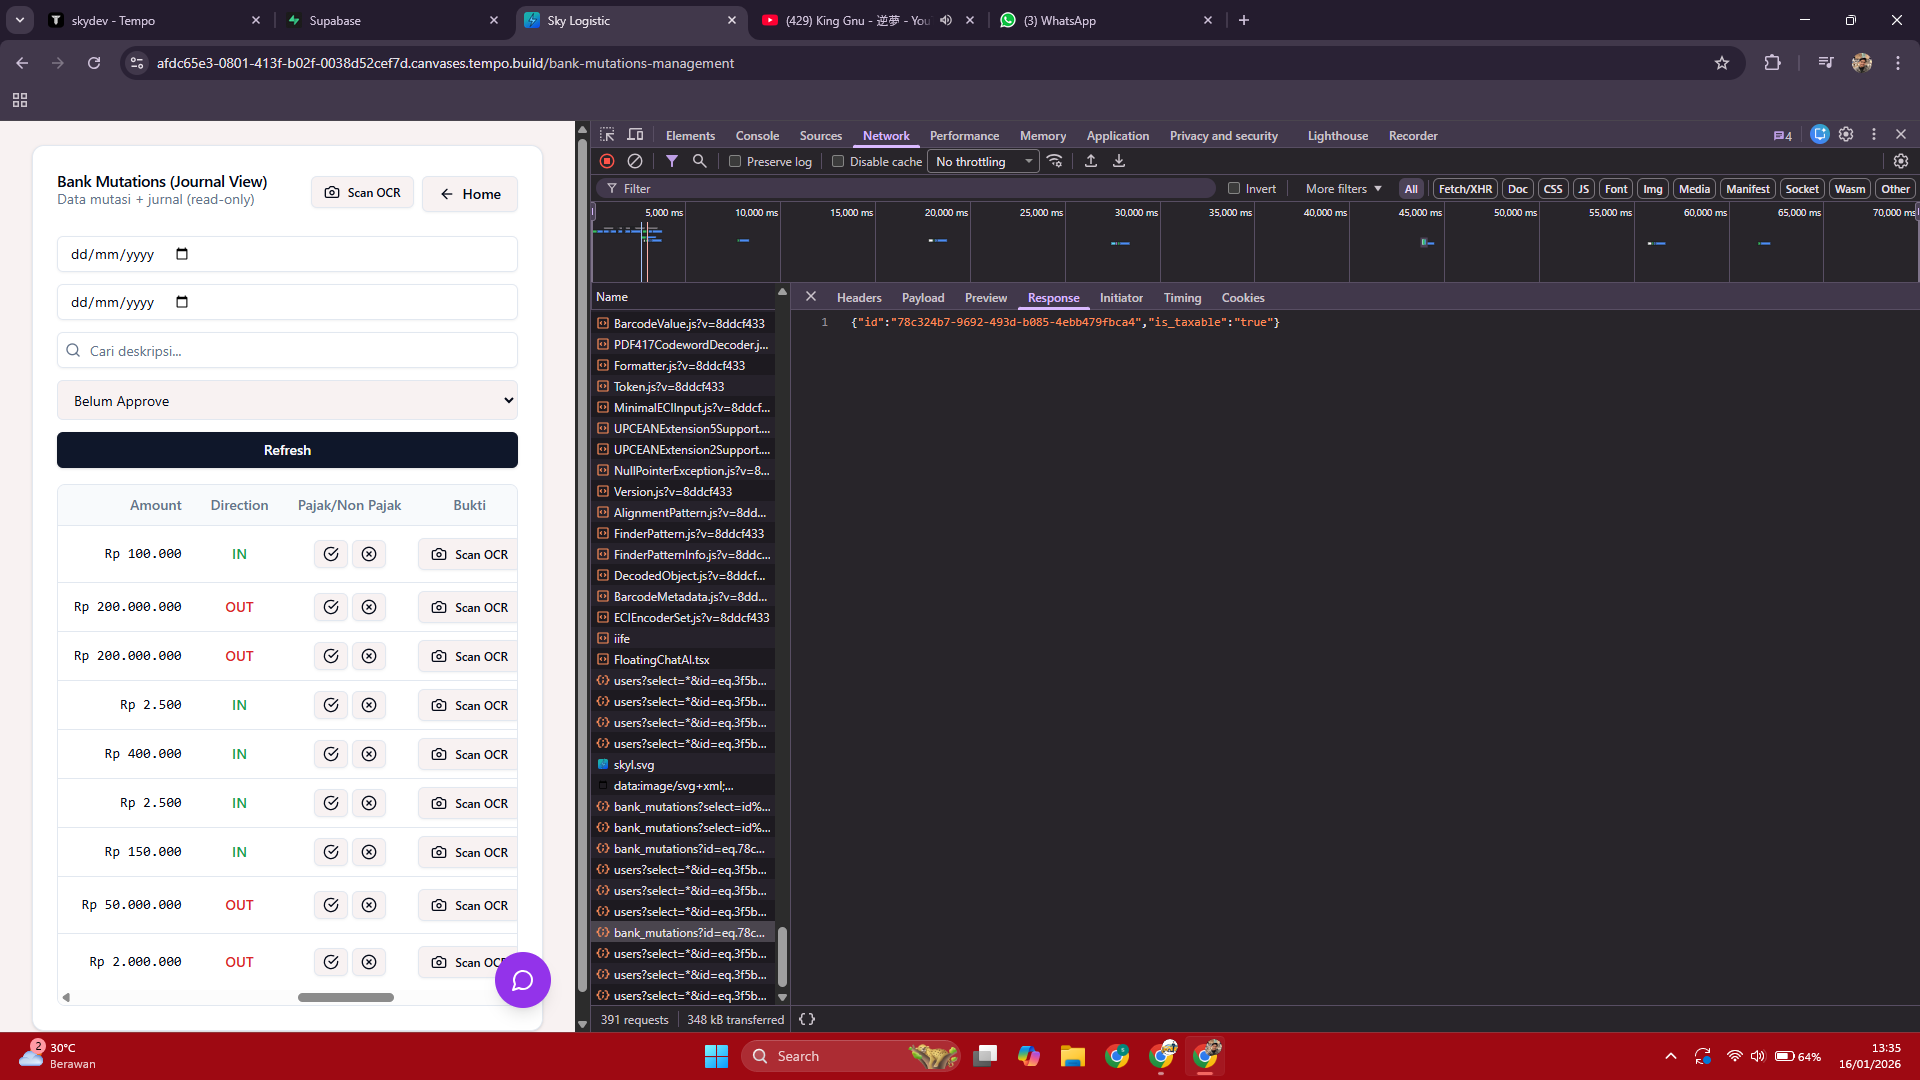
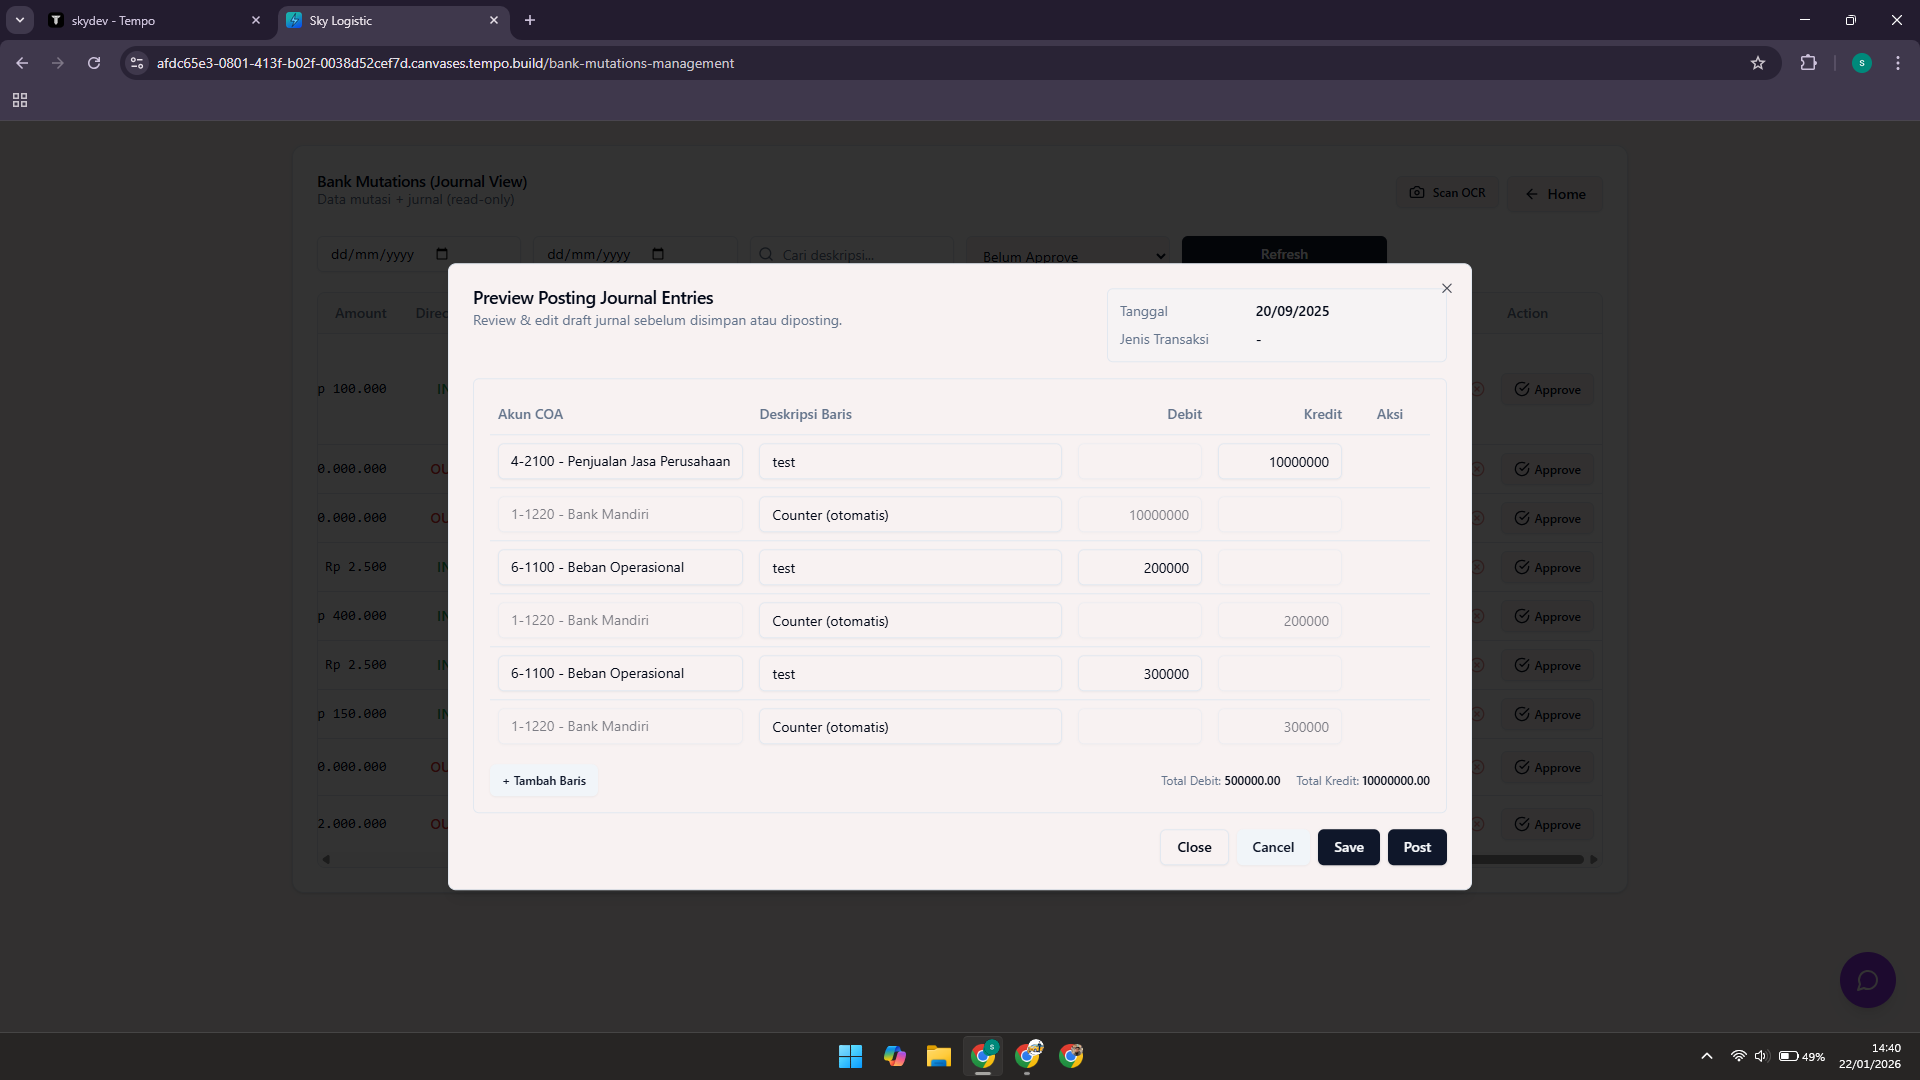
RAFI 24/01/2026 09.41

diff --git a/src/components/BankMutationsManagement.tsx b/src/components/BankMutationsManagement.tsx
@@ -64,6 +64,7 @@ interface BankMutationView {
   approved_at: string | null;
   created_at: string;
   ocr_text: string | null;
+  journal_status?: 'draft' | 'posted' | null;
 
   // Tax extraction result (legacy/denormalized fields)
   // NOTE: source-of-truth hasil extract ada di tables `invoices` dan `tax_invoices`.
@@ -265,7 +266,14 @@ export default function BankMutationsManagement() {
         is_taxable,
         faktur_pajak_url,
         faktur_pajak_storage_bucket,
-        faktur_pajak_file_path
+        faktur_pajak_file_path,
+        transaction_direction,
+        transaction_type,
+
+        bank_mutation_journal_drafts (
+          status,
+          created_at
+        )
       `)
       .order("created_at", { ascending: false });
 
@@ -319,7 +327,30 @@ export default function BankMutationsManagement() {
       });
     }
 
-    setRows(baseRows);
+    const rowsWithJournalStatus = baseRows.map((r: any) => {
+      const rawDrafts = r.bank_mutation_journal_drafts;
+
+      const drafts = Array.isArray(rawDrafts)
+        ? rawDrafts
+        : rawDrafts
+          ? [rawDrafts]
+          : [];
+
+      const latestDraft = drafts.reduce(
+        (latest: any, cur: any) =>
+          !latest || new Date(cur.created_at) > new Date(latest.created_at)
+            ? cur
+            : latest,
+        null
+      );
+
+      return {
+        ...r,
+        journal_status: latestDraft?.status ?? null,
+      };
+    });
+
+    setRows(rowsWithJournalStatus);
     setLoading(false);
   }, [dateFrom, dateTo, searchDesc, statusFilter, toast]);
 
@@ -345,16 +376,8 @@ export default function BankMutationsManagement() {
     try {
       setApprovingId(row.id);
 
-      const { data: link, error: linkError } = await supabase
-        .from("transaction_links" as any)
-        .select("id")
-        .eq("bank_mutation_id", row.id)
-        .maybeSingle();
-
-      if (linkError) throw linkError;
-      if (!(link as any)?.id) {
-        throw new Error("Transaction link belum ada untuk mutasi ini");
-      }
+      // Non Pajak: tidak perlu cek transaction_links.
+      // Langsung buka Journal Preview Dialog.
 
       const { data: existingDraft, error: draftError } = await supabase
         .from("bank_mutation_journal_drafts" as any)
@@ -374,10 +397,10 @@ export default function BankMutationsManagement() {
       setJournalPreview({
         open: true,
         bankMutationId: row.id,
-        transactionLinkId: (link as any).id,
+        transactionLinkId: null,
         defaultLines,
         bankMutationDate: (row as any).date ?? null,
-        jenisTransaksi: (row as any).direction ?? null,
+        jenisTransaksi: row.transaction_type ?? null,
       });
     } catch (err: any) {
       toast({
@@ -681,13 +704,13 @@ export default function BankMutationsManagement() {
                           {row.debit ? formatRupiah(row.debit) : row.credit ? formatRupiah(row.credit) : "-"}
                         </TableCell>
                         <TableCell className="text-center">
-                          {row.debit ? (
-                            <span className="text-red-600 font-semibold">OUT</span>
-                          ) : row.credit ? (
-                            <span className="text-green-600 font-semibold">IN</span>
-                          ) : (
-                            "-"
-                          )}
+                        {row.transaction_direction === "OUT" ? (
+                          <span className="text-red-600 font-semibold">OUT</span>
+                        ) : row.transaction_direction === "IN" ? (
+                          <span className="text-green-600 font-semibold">IN</span>
+                        ) : (
+                          "-"
+                        )}
                         </TableCell>
                         <TableCell className="text-center">
                           <div className="flex items-center justify-center gap-1">
@@ -1270,10 +1293,18 @@ export default function BankMutationsManagement() {
                             <Button
                               size="sm"
                               variant="outline"
-                              disabled={approvingId === row.id || !!row.approval_status}
+                              disabled={
+                                approvingId === row.id ||
+                               row.journal_status === 'posted'
+                              }
                               onClick={() => handleApprove(row)}
-                              className="h-8 px-3"
+                              title={
+                                row.journal_status === 'posted'
+                                  ? 'Jurnal sudah diposting'
+                                  : 'Approve'
+                              }
                             >
+
                               {approvingId === row.id ? (
                                 <Loader2 className="h-4 w-4 animate-spin" />
                               ) : (

diff --git a/src/components/IntegratedFinancialReport.tsx b/src/components/IntegratedFinancialReport.tsx
@@ -53,17 +53,14 @@ interface FinancialReportData {
 
 interface JournalEntry {
   id: string;
-  entry_number: string;
-  entry_date: string;
-  description: string;
-  debit_account: string;
-  credit_account: string;
+  transaction_date: string;
+  journal_ref?: string;
+  account_code: string;
+  account_name: string;
+  description?: string;
   debit: number;
   credit: number;
   created_at: string;
-  journal_ref?: string;
-  debit_account_name?: string;
-  credit_account_name?: string;
 }
 
 interface COAAccount {
@@ -291,10 +288,11 @@ export default function IntegratedFinancialReport() {
     setLoadingJournal(true);
     try {
       let query = supabase
-        .from("journal_entries_remaining_balance")
-        .select(
-          "*, transaction_date, journal_ref, source_id, account_code, account_name, description, debit, credit, debit_account_code, debit_account_name, credit_account_code, credit_account_name, remaining_balance",
+        .from("journal_entries")
+        .select(  
+          "id, transaction_date, journal_ref, transaction_type, source_id, account_code, account_name, description, debit, credit, bukti, bukti_url, created_at"
         )
+
         // Show newest first in Journal Entries table.
         .order("transaction_date", { ascending: false })
         .order("created_at", { ascending: false })
@@ -347,14 +345,6 @@ export default function IntegratedFinancialReport() {
               (entry as any).memo ??
               (entry as any).keterangan ??
               "",
-            debit_account_name:
-              entry.debit_account_name ||
-              coaMap.get(entry.debit_account_code || entry.debit_account) ||
-              "-",
-            credit_account_name:
-              entry.credit_account_name ||
-              coaMap.get(entry.credit_account_code || entry.credit_account) ||
-              "-",
             jenis_transaksi: jenisTransaksi,
           };
         }) || [];
@@ -541,12 +531,8 @@ export default function IntegratedFinancialReport() {
     const transactions: GLTransaction[] = [];
 
     journalEntries.forEach((entry: any) => {
-      const code =
-        (entry.account_code ||
-          entry.debit_account_code ||
-          entry.credit_account_code ||
-          entry.accountCode ||
-          "") as string;
+      const code = entry.account_code as string;
+
       if (!code) return;
 
       if (code !== accountCode) return;
@@ -1040,10 +1026,10 @@ export default function IntegratedFinancialReport() {
                                 </TableCell>
                               )}
                               <TableCell className="font-mono">
-                                {entry.account_code || entry.debit_account_code || entry.credit_account_code || "-"}
+                                {entry.account_code || "-"}
                               </TableCell>
                               <TableCell>
-                                {entry.account_name || entry.debit_account_name || entry.credit_account_name || "-"}
+                                {entry.account_name || "-"}
                               </TableCell>
                               <TableCell className="text-sm">
                                 <div

diff --git a/src/components/BankMutationJournalPreviewDialog.tsx b/src/components/BankMutationJournalPreviewDialog.tsx
@@ -61,7 +61,7 @@ type Props = {
   onOpenChange: (open: boolean) => void;
 
   bankMutationId: string | null;
-  transactionLinkId: string | null;
+  transactionLinkId?: string | null;
 
   bankMutationDate?: string | null;
   jenisTransaksi?: string | null;
@@ -70,6 +70,7 @@ type Props = {
 
   onSaved?: () => void;
   onCancelled?: () => void;
+  onPosted?: () => void;
 };
 
 const numberValue = (v: unknown) => {
@@ -92,6 +93,7 @@ export function BankMutationJournalPreviewDialog({
   defaultLines,
   onSaved,
   onCancelled,
+  onPosted,
 }: Props) {
   const { user } = useAuth();
   const { toast } = useToast();
@@ -186,10 +188,10 @@ export function BankMutationJournalPreviewDialog({
   }, [lines]);
 
   const persist = async (status: JournalDraftStatus) => {
-    if (!bankMutationId || !transactionLinkId) {
+    if (!bankMutationId) {
       toast({
         title: "Error",
-        description: "bankMutationId / transactionLinkId tidak ditemukan",
+        description: "bankMutationId tidak ditemukan",
         variant: "destructive",
       });
       return;
@@ -200,7 +202,7 @@ export function BankMutationJournalPreviewDialog({
 
       const payload = {
         bank_mutation_id: bankMutationId,
-        transaction_link_id: transactionLinkId,
+        transaction_link_id: transactionLinkId ?? null,
         draft_lines: ensurePerRowBankCounters(lines),
         total_debit: totals.totalDebit,
         total_credit: totals.totalCredit,
@@ -249,6 +251,7 @@ export function BankMutationJournalPreviewDialog({
         }
 
         toast({ title: "Posted", description: "Jurnal berhasil diposting" });
+        onPosted?.();
         onSaved?.();
         onOpenChange(false);
         return;
